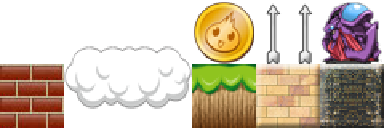
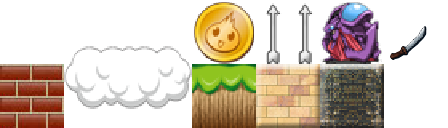
画像の調整をした

diff --git a/Source/Stage.cpp b/Source/Stage.cpp
@@ -88,7 +88,7 @@ void Stage::Draw()
 	int w = imageSize.x;
 	int h = imageSize.y;
 
-	DrawRectExtendGraph(30, 30, 40 + w / 2, 40 + h / 2, 3 * w, 0 * h, w, h, hImage, TRUE);
+	DrawRectExtendGraph(30, 30, 40 + w / 2, 40 + h / 2, 6 * w, 0 * h, w, h, hImage, TRUE);
 
 	SetFontSize(32);
 	DrawFormatString(100, 30, GetColor(255, 255, 255), "X %d", GetKnifeCount());;
@@ -101,7 +101,7 @@ void Stage::Draw()
 				DrawRectGraph(x * w - scrollX, y * h, 3 * w, 1 * h, w, h, hImage, TRUE);
 			}
 			else if (c == 2) {
-				DrawRectGraph(x * w - scrollX, y * h, 3 * w, 0 * h, w, h, hImage, TRUE);
+				DrawRectGraph(x * w - scrollX, y * h, 6 * w, 0 * h, w, h, hImage, TRUE);
 			}
 			else if (c == 8)
 			{
